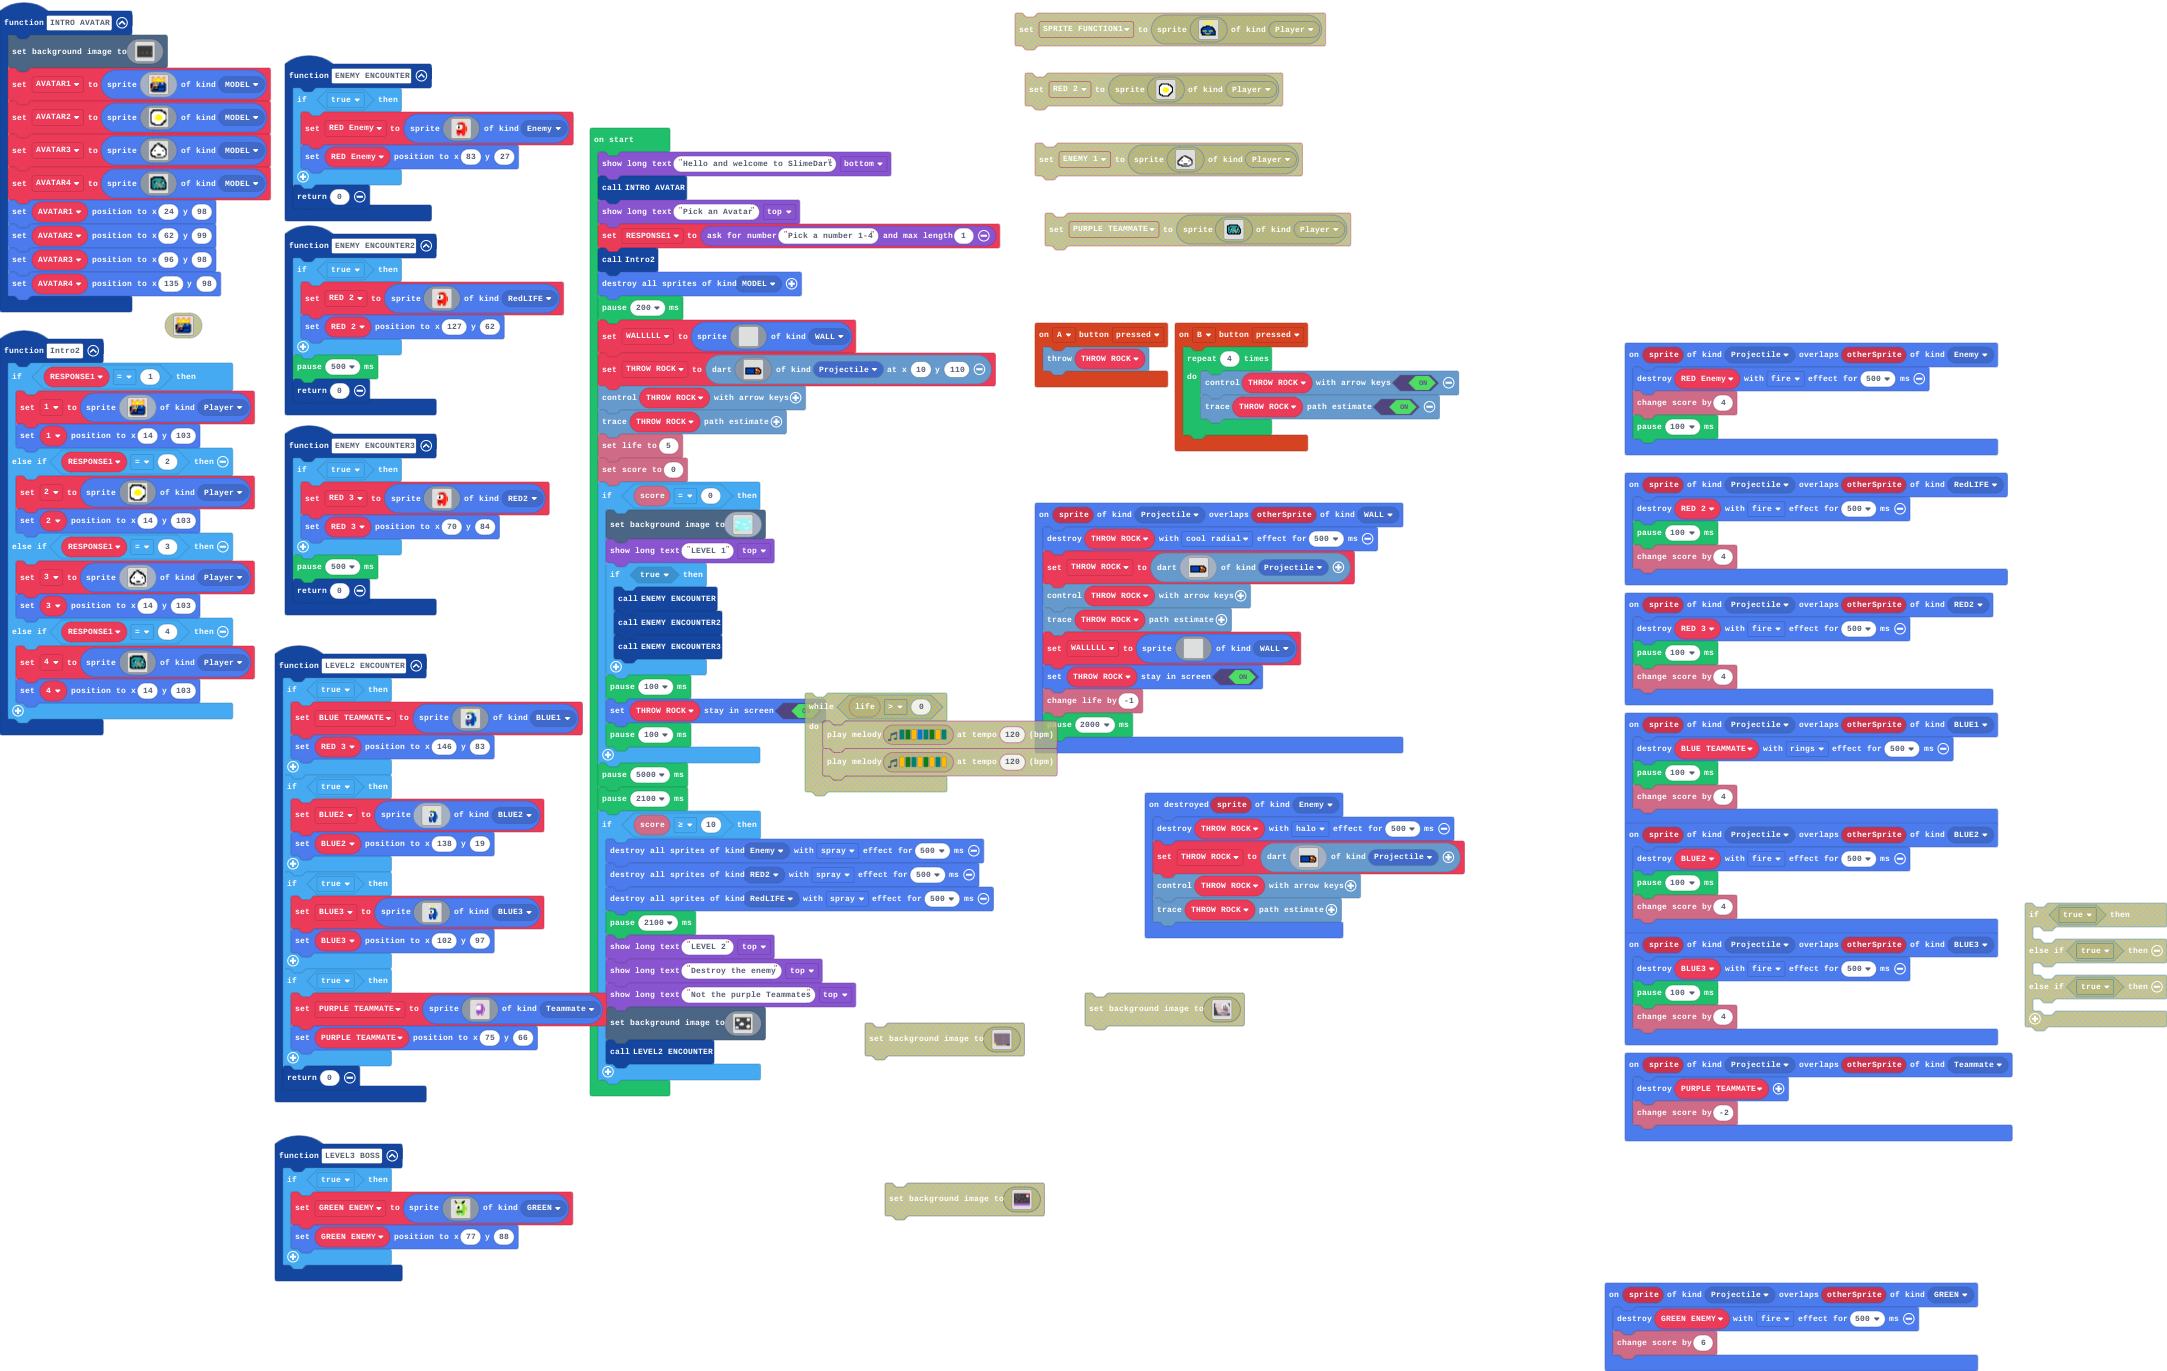
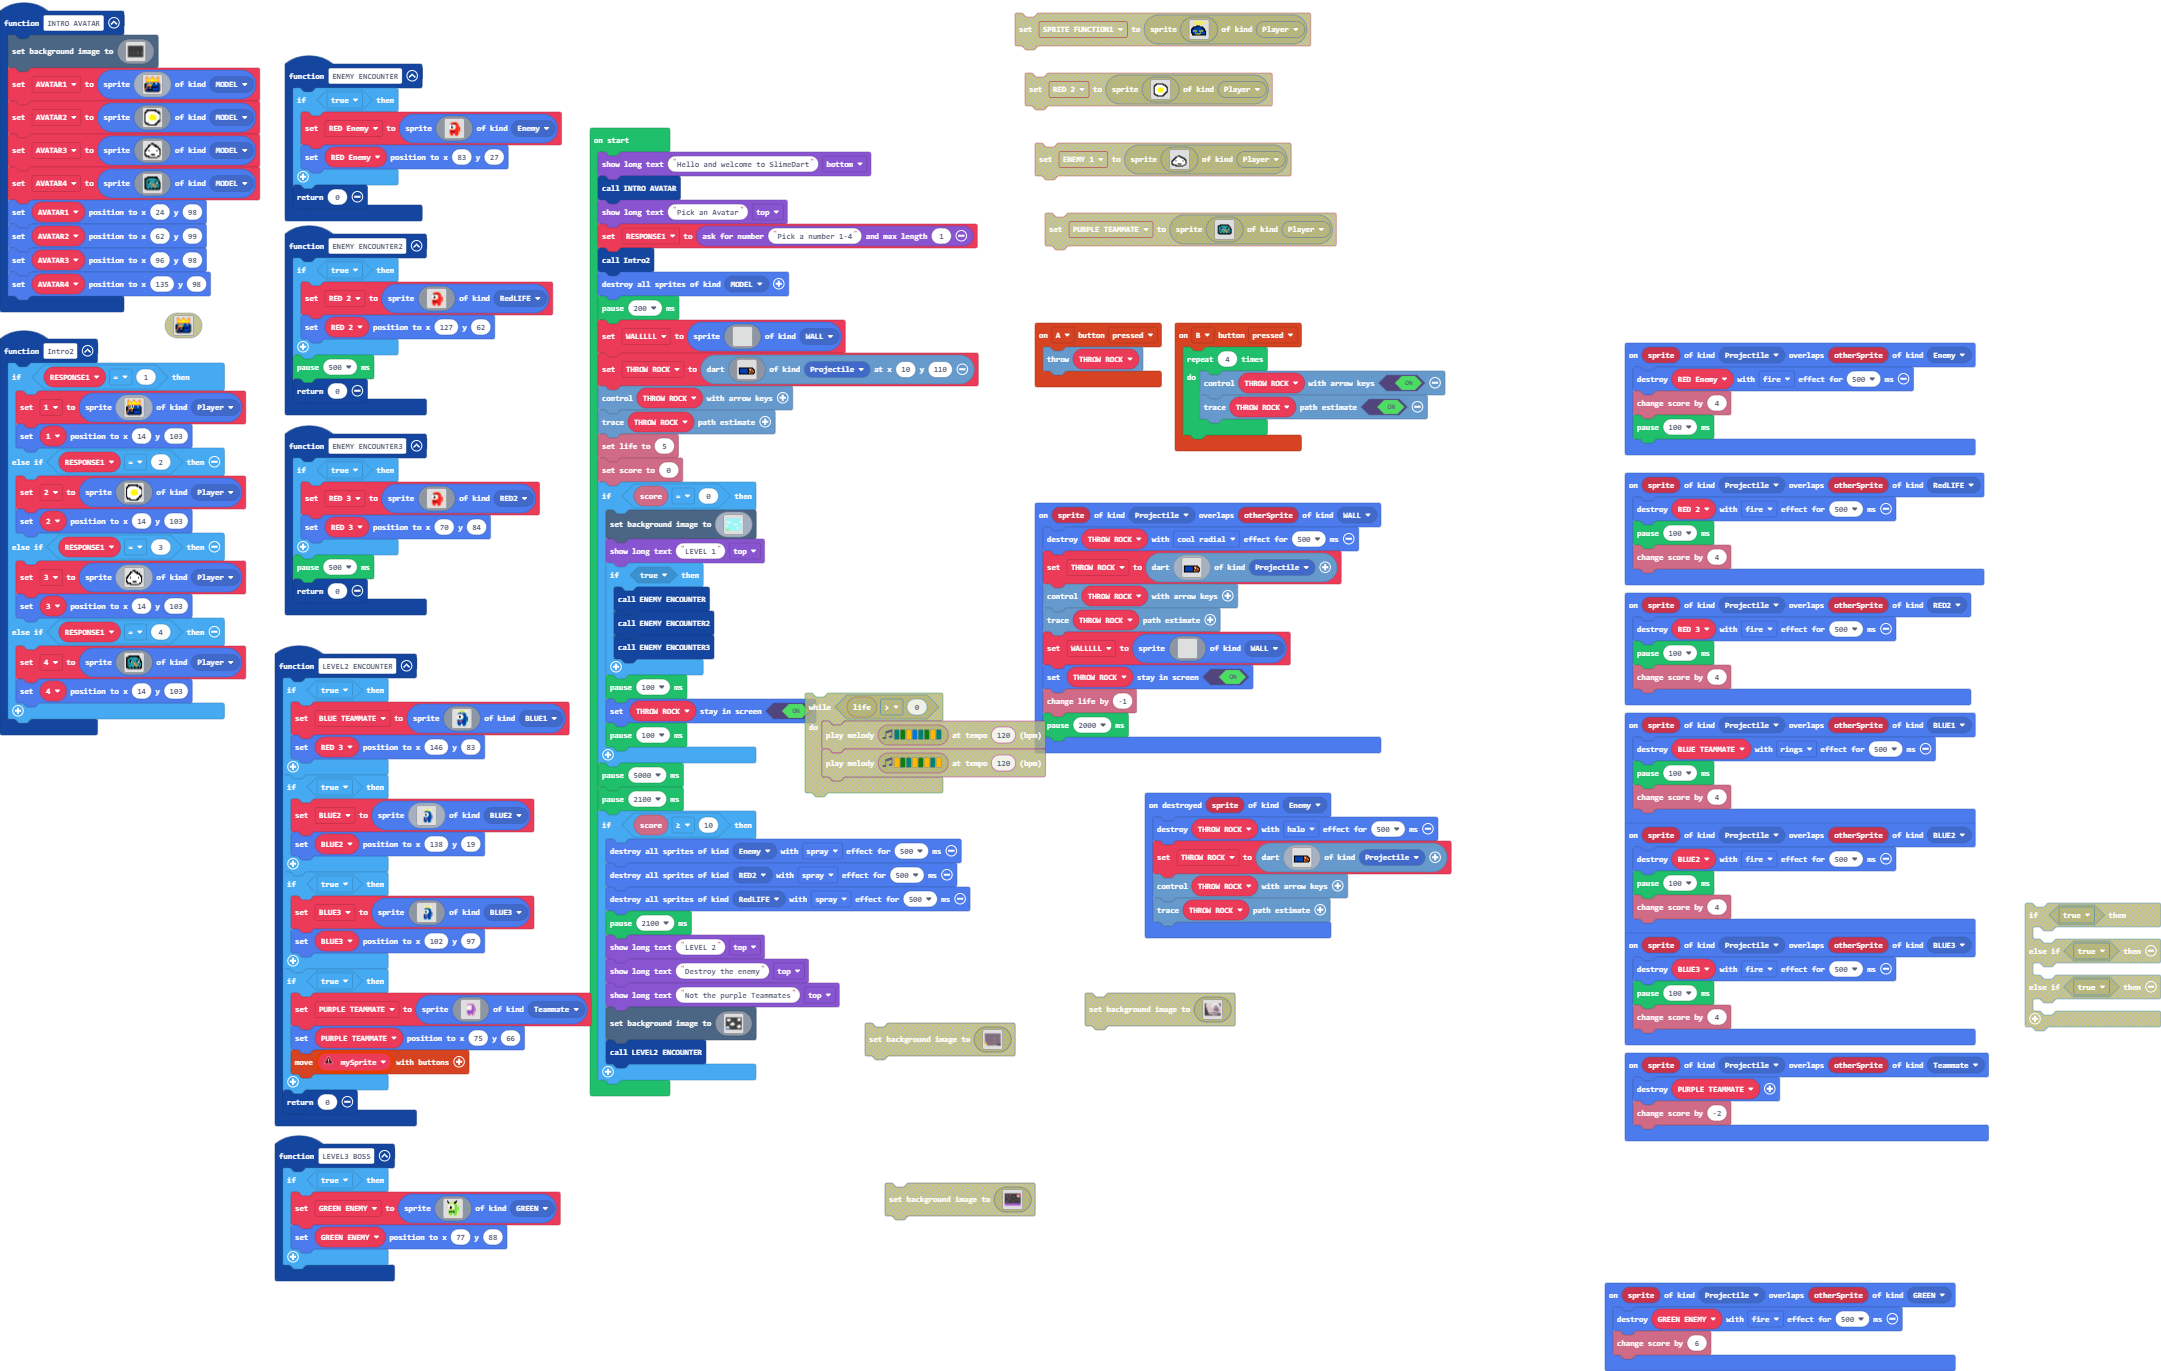
Update main.blocks, main.ts

diff --git a/main.ts b/main.ts
@@ -194,6 +194,7 @@ function LEVEL2_ENCOUNTER () {
         BLUE3.setPosition(102, 97)
     }
     if (true) {
+        let mySprite: Sprite = null
         PURPLE_TEAMMATE = sprites.create(img`
             ....................................
             ....................................
@@ -233,6 +234,7 @@ function LEVEL2_ENCOUNTER () {
             ....................................
             `, SpriteKind.Teammate)
         PURPLE_TEAMMATE.setPosition(75, 66)
+        controller.moveSprite(mySprite)
     }
     return 0
 }
